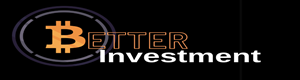
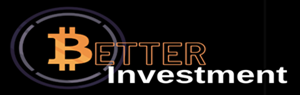
ok

Changed region(s): [[0.03, 0.075, 0.96, 0.95]]

diff --git a/anasayfa.html b/anasayfa.html
@@ -18,9 +18,9 @@
 <body style="background-color:rgb(221, 226, 194);">
   <!-- Navbar-->
   <nav class="navbar navbar-expand-lg navbar-light " style="background-color: black;">
-  <img src="img/etter.png" style="padding-top: 0px; padding-bottom: 17px;" class="navbar-brand animate__animated animate__fadeInDown" href="#"></img>
+  <img src="img/etter.png" style="padding-top: 0px; padding-left: 16px; padding-bottom: 17px;" class="navbar-brand animate__animated animate__fadeInDown" href="#"></img>
   <div class="collapse navbar-collapse" id="navbarSupportedContent" style="position: absolute; top: 50%; left: 50%; transform: translate(-50%, -50%);">
-    <ul class="navbar-nav mr-auto"  style="font-size: 22px; font-family:'Gill Sans', 'Gill Sans MT', Calibri, 'Trebuchet MS', sans-serif ;">
+    <ul class="navbar-nav mr-auto"  style="font-size: 20px; font-family:'Gill Sans', 'Gill Sans MT', Calibri, 'Trebuchet MS', sans-serif ;">
       <li class="nav-item active">
         <a class="nav-link"  style="color: white;" href="#">Home<span class="sr-only">(current)</span></a>
       </li>
